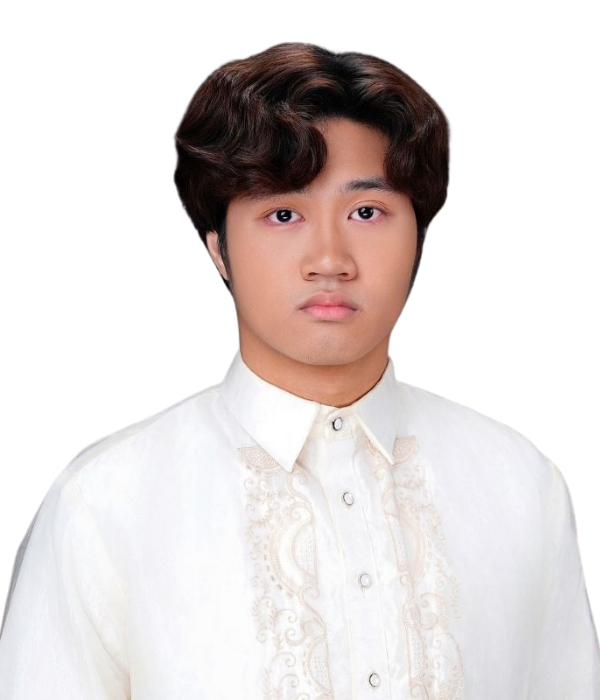
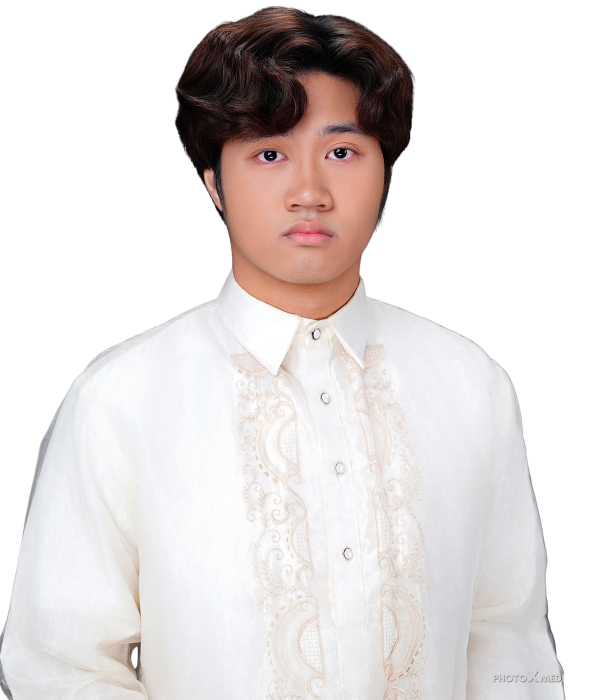
Few changes and qol changes

diff --git a/src/App.jsx b/src/App.jsx
@@ -24,7 +24,7 @@ const SPECIALITIES_PILLARS = [
     id: "fundamentals",
     code: "CHAPTER 01",
     title: "Network Fundamentals",
-    stat: "ATK 94 // DEF 90",
+    stat: "ATK 94 | DEF 90",
     summary:
       "I build from the ground up: understanding how data moves across a network, layer by layer, before touching any device.",
     bullets: [
@@ -38,7 +38,7 @@ const SPECIALITIES_PILLARS = [
     id: "cisco-ios",
     code: "CHAPTER 02",
     title: "Cisco IOS Configuration",
-    stat: "ATK 92 // DEF 88",
+    stat: "ATK 92 | DEF 88",
     summary:
       "Hands-on lab practice with the Cisco IOS command line, from first boot to a saved and verified configuration.",
     bullets: [
@@ -52,7 +52,7 @@ const SPECIALITIES_PILLARS = [
     id: "switching-routing",
     code: "CHAPTER 03",
     title: "Switching & Routing Basics",
-    stat: "ATK 90 // DEF 91",
+    stat: "ATK 90 | DEF 91",
     summary:
       "Connecting devices into segmented, reliable networks and moving traffic between them.",
     bullets: [
@@ -66,7 +66,7 @@ const SPECIALITIES_PILLARS = [
     id: "services-security",
     code: "CHAPTER 04",
     title: "Network Services & Security",
-    stat: "ATK 89 // DEF 95",
+    stat: "ATK 89 | DEF 95",
     summary:
       "Keeping the network usable and protected with core services and least-privilege access.",
     bullets: [
@@ -80,7 +80,7 @@ const SPECIALITIES_PILLARS = [
     id: "management",
     code: "CHAPTER 05",
     title: "ClickUp Project Manager",
-    stat: "ATK 96 // DEF 99",
+    stat: "ATK 96 | DEF 99",
     summary:
       "ClickUp is a project management software company that provides an all-in-one platform to improve workplace efficiency and collaboration.",
     bullets: [
@@ -375,7 +375,7 @@ export default function App() {
         ch = 0;
         timer = setTimeout(step, 400);
       } else {
-        timer = setTimeout(leave, 500 );
+        timer = setTimeout(leave, 750);
       }
     };
     timer = setTimeout(step, 300);
@@ -431,12 +431,6 @@ export default function App() {
             introExiting ? "pointer-events-none -translate-y-6 opacity-0" : "translate-y-0 opacity-100"
           }`}
         >
-          <img
-            src="/assets/intro/barong-cutout.png"
-            alt="Portrait of Jah in a barong tagalog"
-            draggable={false}
-            className="mx-auto mb-6 h-48 w-44 select-none object-contain sm:h-56 sm:w-52"
-          />
           <div className="w-full max-w-2xl select-none rounded-xl bg-white p-2.5 shadow-[0_0_35px_rgba(255,255,255,0.14)]">
             <div className="min-h-[175px] space-y-4 rounded-lg bg-black px-6 py-6 font-dialog text-2xl leading-relaxed text-white sm:px-10 sm:py-8 sm:text-3xl">
               <p className="min-h-[1.6em]">
@@ -519,7 +513,6 @@ export default function App() {
 
       <SpiderCrawl />
 
-
       <header className="sticky top-0 z-40 border-b border-white/10 bg-black/85 backdrop-blur-md">
         <div className="mx-auto flex max-w-6xl items-center justify-between gap-4 px-4 py-3 sm:px-8">
           <button onClick={() => scrollToSection("home")} className="group flex shrink-0 items-center gap-2.5">
@@ -563,10 +556,9 @@ export default function App() {
               </h1>
               <p className="mt-4 font-dialog text-4xl text-ut sm:text-5xl">Jah</p>
             </div>
-            <p className="font-tech text-2xl text-zinc-200 sm:text-3xl">Filled with Hopes and Dreams</p>
 
             <div className="card space-y-4 p-6 sm:p-8">
-              <p className="font-mono text-base text-ut">* BIONOTE // LV 19</p>
+              <p className="font-mono text-base text-ut">* BIONOTE | LV 19</p>
               <p className="font-dialog text-2xl leading-snug text-white sm:text-3xl">
                 <span className="text-brand">* </span>
                 Hey! I’m <span className="text-ut">Jah</span>—a Bachelor of Science in Information Technology (<span className="text-brand">BSIT</span>) student at the{" "}
@@ -612,7 +604,7 @@ export default function App() {
           </div>
         </section>
 
-        <Section id="projects" code="FIGHT // 02" title="PROJECTS & TECHNICAL LABS">
+        <Section id="projects" code="FIGHT | 02" title="PROJECTS & TECHNICAL LABS">
           <div className="grid gap-6 md:grid-cols-2">
             {PROJECTS_DATA.map((p) => (
               <article key={p.id} className="card flex flex-col gap-4 p-6">
@@ -633,7 +625,7 @@ export default function App() {
           </div>
         </Section>
 
-        <Section id="specialities" code="ACT // 03" title="SPECIALITIES  // BATTLE STRATEGY">
+        <Section id="specialities" code="ACT | 03" title="SPECIALITIES  | BATTLE STRATEGY">
           <div className="grid items-stretch gap-6 lg:grid-cols-12">
             <div className="flex flex-col gap-3 lg:col-span-5">
               {SPECIALITIES_PILLARS.map((pillar, idx) => {
@@ -664,7 +656,7 @@ export default function App() {
               <div className="space-y-4">
                 <div className="flex flex-wrap items-center justify-between gap-2 border-b border-white/10 pb-3">
                   <span className="flex items-center gap-2.5 font-mono text-base text-brand">
-                    <ActiveIcon className="h-5 w-5" />* {activePillar.code} // INSPECTING WORKFLOW
+                    <ActiveIcon className="h-5 w-5" />* {activePillar.code} | INSPECTING WORKFLOW
                   </span>
                   <span className="chip text-ut">{activePillar.stat}</span>
                 </div>
@@ -690,7 +682,7 @@ export default function App() {
           </div>
         </Section>
 
-        <Section id="organizations" code="ITEM // 04" title="ORGANIZATIONS & AFFILIATIONS">
+        <Section id="organizations" code="ITEM | 04" title="ORGANIZATIONS & AFFILIATIONS">
           <div className="space-y-6">
             {ORGANIZATIONS_DATA.map((item) => (
               <div key={item.org} className="card border-l-4 p-6 sm:p-7" style={{ borderLeftColor: item.color }}>
@@ -698,7 +690,7 @@ export default function App() {
                   <div>
                     <div className="mb-2 flex flex-wrap items-center gap-3 font-mono text-sm">
                       <span className="chip" style={{ color: item.color, borderColor: item.color }}>{item.badge}</span>
-                      <span className="text-zinc-400">// {item.period}</span>
+                      <span className="text-zinc-400">| {item.period}</span>
                     </div>
                     <h3 className="font-tech text-xl text-white sm:text-2xl">{item.org}</h3>
                   </div>
@@ -720,7 +712,7 @@ export default function App() {
           </div>
         </Section>
 
-        <Section id="events" code="MERCY // 05" title="EVENTS ATTENDED & ORGANIZED">
+        <Section id="events" code="MERCY | 05" title="EVENTS ATTENDED & ORGANIZED">
           <div className="grid gap-6 md:grid-cols-2 lg:grid-cols-3">
             {EVENTS_DATA.map((ev) => {
               const isSaved = !!savedEvents[ev.id];
@@ -755,7 +747,7 @@ export default function App() {
           </div>
         </Section>
 
-        <Section id="contact" code="TALK // 06" title="CONTACT">
+        <Section id="contact" code="TALK | 06" title="CONTACT">
           <div className="grid gap-6 md:grid-cols-3">
             {CONTACTS.map(({ label, value, href, icon: Icon, external }) => (
               <a
